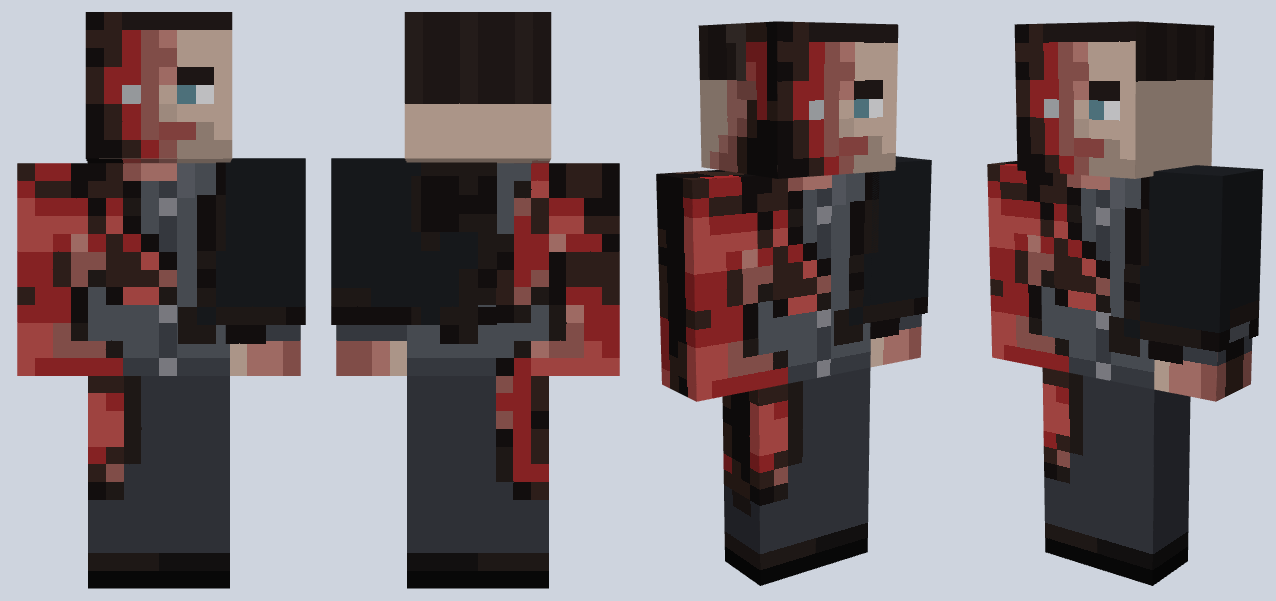
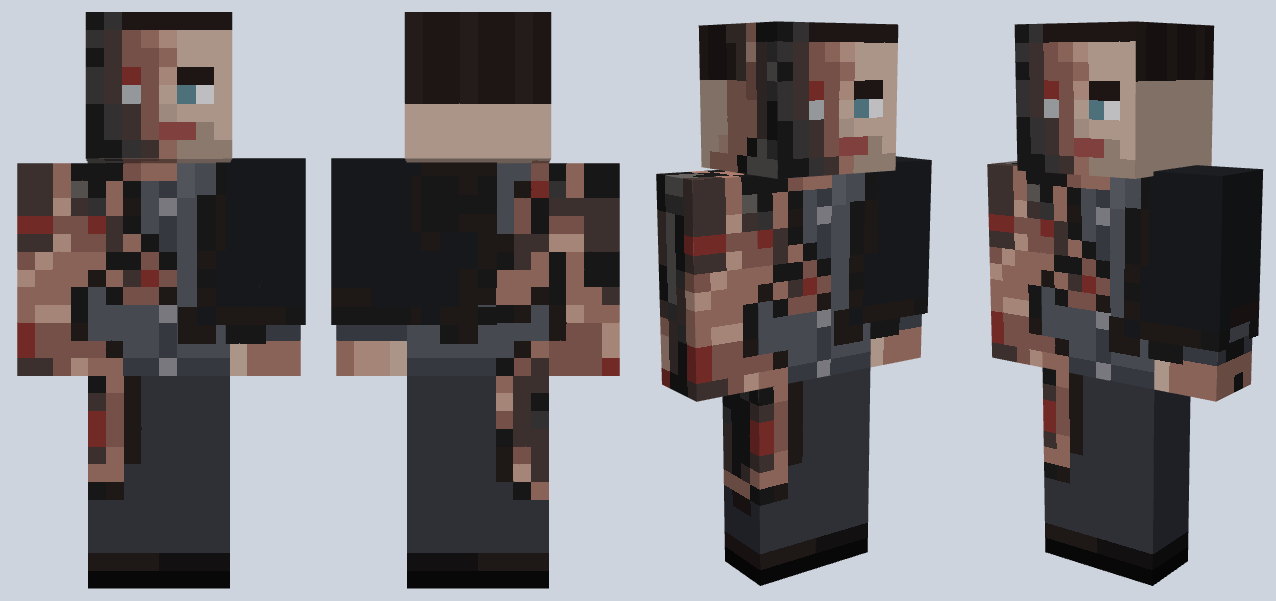
art(bosses): Deucalion's real face and glasses, burned Peter in burn tones
Deucalion (human): short dark-brown hair, dark stubble and blind clouded eyes instead of blond and blue. Dark glasses sit alone on the hat layer, so hiding that layer removes them. Sweater and shawl collar unchanged.

Peter Hale (burned): same right-side layout, new tones. Dull pink-brown mottled scar with a waxy sheen, dark crust, grey-black flaking char; raw red only in a few small splits.

References recorded in art/bosses/REFERENCES.md and README.md (round 7).

diff --git a/art/bosses/tools/paint_skins.py b/art/bosses/tools/paint_skins.py
@@ -315,9 +315,13 @@ def mikael():
 
 
 def deucalion_human():
-    """No random noise anywhere (it read as speckle): every tone is placed by a regular pattern."""
+    """Short dark-brown hair, dark stubble, blind clouded eyes behind dark glasses (stills 3x01, 3x07, 3x10,
+    5x14, 6x19). The glasses are the only thing on the hat layer, so hiding that layer takes them off.
+    No random noise anywhere (it read as speckle): every tone is placed by a regular pattern."""
     s = Skin(False, 707)
-    SK, HAIR, IRIS = (212, 178, 150), (170, 144, 98), (88, 132, 178)
+    SK, HAIR = (212, 178, 150), (92, 68, 50)
+    CLOUD, RIM = (188, 196, 200), (206, 176, 172)  # clouded iris, reddened white
+    LENS, GLINT, FRAME = (26, 26, 30), (70, 67, 66), (44, 42, 42)
     ALL = ('top', 'bottom') + SIDES
 
     def fill(part, fn, sides=ALL, rows=None):
@@ -332,25 +336,29 @@ def deucalion_human():
     def strand(lx, ly, k=1.0):  # swept strands: three tones in diagonal streaks
         return shade(HAIR, k * (1.1, 0.98, 0.86)[(lx + ly // 2) % 3])
 
-    # face: smooth skin, soft jaw shadow, even stubble band
+    # face: smooth skin, dark stubble along the jaw and chin
     fill('head', lambda side, lx, ly: shade(SK, {'front': 1.0, 'top': 1.0, 'bottom': 0.84}.get(side, 0.95) * (0.95 if side in SIDES and ly >= 6 else 1.0)))
-    STUB = mixc(SK, shade(SK, 0.8), 0.45)
+    STUB, STUB_L = mixc(SK, HAIR, 0.5), mixc(SK, HAIR, 0.26)
     for lx in range(8):
         s.set('head', 'front', lx, 7, STUB)
         if lx not in (3, 4):
-            s.set('head', 'front', lx, 6, mixc(SK, STUB, 0.6))
+            s.set('head', 'front', lx, 6, STUB if lx in (0, 1, 6, 7) else STUB_L)
+    for lx in (0, 7):
+        s.set('head', 'front', lx, 5, STUB_L)
     for side, xs in (('right', (5, 6, 7)), ('left', (0, 1, 2))):
         for lx in xs:
-            s.set('head', side, lx, 7, STUB)
-    s.set('head', 'front', 1, 4, WHITE); s.set('head', 'front', 2, 4, IRIS)
-    s.set('head', 'front', 5, 4, IRIS); s.set('head', 'front', 6, 4, WHITE)
+            s.set('head', side, lx, 5, STUB_L); s.set('head', side, lx, 6, STUB); s.set('head', side, lx, 7, STUB)
+    s.set('head', 'front', 1, 4, RIM); s.set('head', 'front', 2, 4, CLOUD)
+    s.set('head', 'front', 5, 4, CLOUD); s.set('head', 'front', 6, 4, RIM)
     for lx in (1, 2, 5, 6):
-        s.set('head', 'front', lx, 3, (120, 98, 64))
+        s.set('head', 'front', lx, 3, shade(HAIR, 0.72))
     s.set('head', 'front', 3, 5, shade(SK, 0.9)); s.set('head', 'front', 4, 5, shade(SK, 0.94))
     s.set('head', 'front', 3, 6, (160, 96, 88)); s.set('head', 'front', 4, 6, (160, 96, 88))
-    # short sandy hair, swept up and to one side
+    # short dark-brown hair, swept up and to one side
     fill('head', lambda side, lx, ly: strand(lx, ly), sides=('top',))
     fill('head', lambda side, lx, ly: strand(lx, ly, 0.94), sides=('front',), rows=(0, 1))
+    for lx in range(0, 5):  # the swept fringe drops one row on his right
+        s.set('head', 'front', lx, 1, strand(lx, 1, 0.9))
     fill('head', lambda side, lx, ly: strand(lx, ly, 0.9 if ly == 4 else 0.96), sides=('back',), rows=(0, 5))
     for side, xs, burn in (('right', range(0, 6), (6, 7)), ('left', range(2, 8), (0, 1))):
         for ly in range(3):
@@ -358,11 +366,12 @@ def deucalion_human():
                 s.set('head', side, lx, ly, strand(lx, ly, 0.94))
         for lx in burn:
             s.set('head', side, lx, 3, shade(HAIR, 0.82))
-    fill('hat', lambda side, lx, ly: strand(lx, ly, 1.04), sides=('top',))  # volume on the second layer
-    fill('hat', lambda side, lx, ly: strand(lx, ly), sides=SIDES, rows=(0, 1))
-    for lx in range(0, 5):  # the swept quiff drops one row on his right
-        s.set('hat', 'front', lx, 1, strand(lx, 1, 0.92))
-    fill('hat', lambda side, lx, ly: strand(lx, ly, 0.94), sides=('back',), rows=(1, 3))
+    # dark glasses (hat layer): two lenses over brow and eye, bridge, arms back to the ears
+    for x0 in (1, 5):
+        s.rect('hat', 'front', x0, 3, 2, 2, LENS); s.set('hat', 'front', x0, 3, GLINT)
+    for lx in (0, 3, 4, 7):
+        s.set('hat', 'front', lx, 3, FRAME)
+    s.rect('hat', 'right', 4, 3, 4, 1, FRAME); s.rect('hat', 'left', 0, 3, 4, 1, FRAME)
     # dark knit sweater (base): clean vertical ribs
     SW, SWL, TRO, BOOT = (38, 40, 46), (122, 124, 130), (30, 32, 38), (24, 22, 22)
     rib = lambda c, lx, hi=1.12, lo=0.88: shade(c, hi if lx % 2 == 0 else lo)
@@ -443,13 +452,14 @@ def risen(s):
     """Peter, burned (Season 1 stills 1x04 / 1x09). One burn field in 3D model space drives everything, so the
     damage is continuous across faces and limbs instead of separate blotches. It starts on the right side of his
     face (viewer's left, as in the stills), runs down the right arm and diagonally across the chest and back.
-    Skin goes intact -> ridged ruddy scar -> raw red -> cracked char. The fire took the outer layers first: the
+    Skin goes intact -> waxy pink-brown scar -> dark crust -> grey-black flaking char, with raw red only in a
+    few splits (burned, not bloody). The fire took the outer layers first: the
     black leather jacket survives only on his left, the grey shirt is burned through along the swath with a
     scorched fringe, and the right trouser leg is burned open."""
     INTACT = (214, 186, 170)
-    SCAR_L, SCAR_D = (198, 132, 124), (160, 96, 90)
-    RAW, RAW_P = (166, 42, 44), (198, 84, 80)
-    CHAR_B, CHAR_K = (56, 38, 32), (22, 18, 18)
+    SCAR_D, SCAR_M, SHEEN = (146, 100, 90), (172, 124, 110), (206, 166, 150)  # dull pink-brown, waxy highlight
+    RAW, CRUST = (142, 52, 48), (74, 60, 56)
+    CHAR_K, CHAR_G, ASH = (30, 29, 30), (62, 60, 60), (104, 100, 98)
     HAIR, SINGE = (36, 28, 26), (76, 64, 58)
     SHIRT, SHIRT_D, BUTTON = (88, 92, 100), (66, 70, 78), (150, 150, 158)
     LEATH, LEATH_HI = (28, 30, 34), (70, 76, 74)
@@ -500,15 +510,15 @@ def risen(s):
         return best + 0.36 * (vnoise(p, 3.5, 501) - 0.5)  # organic edges instead of perfect arcs
 
     def skin(L, p):
-        n = vnoise(p, 2.2, 777)  # its contour lines give winding scar ridges and crust edges
-        if L > 0.78:
-            return CHAR_K if L > 0.92 or n > 0.5 else CHAR_B
-        if L > 0.56:
-            return CHAR_B if n > 0.6 else RAW_P if n < 0.4 else RAW
-        if L > 0.38:
-            return SCAR_L if 0.42 < n < 0.56 else SCAR_D
+        n = vnoise(p, 2.2, 777)  # its contour lines give winding scar ridges and flake edges
+        if L > 0.84:  # char: grey-black, flaking
+            return ASH if n > 0.66 else CHAR_G if n > 0.52 else CHAR_K
+        if L > 0.68:  # crust over the deepest burns; raw only where it has split
+            return RAW if n < 0.3 else CHAR_K if n > 0.62 else CRUST
+        if L > 0.44:  # mottled scar with a waxy sheen along the ridges
+            return SHEEN if 0.47 < n < 0.53 else SCAR_M if n >= 0.53 else SCAR_D
         if L > 0.22:
-            return SCAR_L
+            return SHEEN if n > 0.6 else SCAR_M
         return INTACT
 
     def cloth(part, side, lx, ly):
@@ -563,18 +573,18 @@ def risen(s):
         hair('front', lx, 0)
         for ly in range(3):
             hair('left', lx, ly); hair('right', lx, ly)
-    # face, hand-placed over the field (I intact, S/D scar, R raw, B/K char, H hair, b brow, w eye white,
-    # i iris, c clouded eye, m mouth, t stubble)
-    FACE = ['KBHHHHHH',
-            'BBRDSIII',
-            'KBRDDIII',
-            'BRRDSbbI',
-            'BRcDIiwI',
-            'KBRDIIII',
-            'KBRDmmtI',
-            'KKBRDttt']
-    KEY = {'I': INTACT, 'S': SCAR_L, 'D': SCAR_D, 'R': RAW, 'B': CHAR_B, 'K': CHAR_K, 'H': HAIR, 'b': HAIR, 'w': WHITE,
-           'i': (96, 140, 152), 'c': (186, 190, 194), 'm': (160, 80, 76), 't': mixc(INTACT, HAIR, 0.22)}
+    # face, hand-placed over the field (I intact, S sheen, M/D scar, C crust, G/K char, r raw split, H hair,
+    # b brow, w eye white, i iris, c clouded eye, m mouth, t stubble)
+    FACE = ['KGHHHHHH',
+            'GCDMSIII',
+            'KCDDMIII',
+            'GCrDSbbI',
+            'GCcDIiwI',
+            'KGCDIIII',
+            'KGCDmmtI',
+            'KKGCMttt']
+    KEY = {'I': INTACT, 'S': SHEEN, 'M': SCAR_M, 'D': SCAR_D, 'C': CRUST, 'G': CHAR_G, 'K': CHAR_K, 'r': RAW, 'H': HAIR,
+           'b': HAIR, 'w': WHITE, 'i': (96, 140, 152), 'c': (186, 190, 194), 'm': (160, 80, 76), 't': mixc(INTACT, HAIR, 0.22)}
     for ly, row in enumerate(FACE):
         for lx, k in enumerate(row):
             s.set('head', 'front', lx, ly, KEY[k])

diff --git a/art/bosses/README.md b/art/bosses/README.md
@@ -20,9 +20,9 @@ All art is original. Wikis, show descriptions and fan skins were used as inspira
 | `rebekah.png` | **slim arms** | cream blouse, grey wool coat, dark jeans, brown boots; long icy-blonde waves, light blue eyes, pale skin with a few freckles | long gold pendant necklace; hair spills over the coat on the jacket layer |
 | `finn.png` | player | grey dress coat over a white shirt and dark tie, dark trousers, black shoes; brown hair slicked back, hazel-green eyes | coat tails on the pants layers |
 | `freya.png` | **slim arms** | brown leather jacket over a charcoal top, dark jeans, black boots; long dirty-blonde hair, green eyes, smoky liner | pendant on a cord. Possible future NPC/boss |
-| `deucalion_human.png` | player | dark charcoal knit sweater with clean vertical ribs, lighter grey textured (checker-knit) shawl collar and shoulder panels, dark trousers; short swept sandy-blond hair in three-tone strands, blue eyes | no coat, cane or glasses. No random noise: every tone is placed by a regular pattern, so nothing speckles |
+| `deucalion_human.png` | player | dark charcoal knit sweater with clean vertical ribs, lighter grey textured (checker-knit) shawl collar and shoulder panels, dark trousers; short swept dark-brown hair in three-tone strands, dark stubble along jaw and chin, blind eyes (clouded pale iris, reddened white) | dark glasses with thin frames and arms are the **only** thing on the hat layer: hide that layer (the `hat` model part) to take them off, e.g. when he shifts. No coat or cane. No random noise: every tone is placed by a regular pattern |
 | `peter_hale.png` | player | camel wool overcoat (lapels, open) over a dark grey herringbone waistcoat and a white open-collar shirt, dark trousers; slicked-back dark hair, short trimmed beard and stubble (mouth visible), blue-green eyes | coat to knee level on the pants layers, charcoal trousers and dark shoes below |
-| `peter_hale_burned.png` | player | Season 1 burned look: intact skin, ridged ruddy scar, raw red, char brown and black; grey button shirt, black leather jacket, charcoal trousers | one burn field in 3D runs from the right side of his face (viewer's left, as in the 1x04 and 1x09 stills) down the right arm, across the chest and back, to the right hip; a smaller one takes the left hand. Skin grades intact, scar, raw, char towards each centre. The jacket survives only on his left, the shirt is burned through along the swath with a black and scorched-brown fringe, the right trouser leg is burned open. Right half of the face stays recognisably Peter (clouded eye on the burned side) |
+| `peter_hale_burned.png` | player | Season 1 burned look in burn tones, not blood: intact skin, dull pink-brown scar (two tones, mottled, with a pale waxy sheen along the ridges), dark crust, grey-black char with grey flakes and ash; raw red only in a few small splits; grey button shirt, black leather jacket, charcoal trousers | one burn field in 3D runs from the right side of his face (viewer's left, as in the 1x04 and 1x09 stills) down the right arm, across the chest and back, to the right hip; a smaller one takes the left hand. Skin grades intact, scar, crust, char towards each centre. The jacket survives only on his left, the shirt is burned through along the swath with a black and scorched-brown fringe, the right trouser leg is burned open. Right half of the face stays recognisably Peter (clouded eye on the burned side) |
 | `sebastien_valet.png` | player | French line-infantry soldier of the 1760s: undyed greyish-white wool coat with blue cuffs and turn-backs and brass buttons, buff waistcoat, black cravat, white buff cross-belt, buff breeches, black gaiters | bare-headed on the skin: natural dark hair pulled back into a queue with a black ribbon at the nape, tail and bow hanging on the coat back; clean face with light stubble; healthy tan skin. His tricorn is a 3D item model, not paint (the preview shows it worn) |
 | `beast_host.png` | player | linen button-up shirt, brown vest, grey trousers; medium-brown skin, dark brown eyes, short dark brown hair | the Beast's host, Mason Hewitt in the show; village clothes for the mod |
 
@@ -76,6 +76,11 @@ All four use the Werewolves mod beast model (`WerewolfBeastModel`) UV layout exa
 - **Deucalion (human)** — also teen-wolf-pack.fandom.com/wiki/Gideon_Emery and yourprops.com (screen-worn wardrobe listing, page body not readable); sandy-blond hair and blue eyes confirmed by two wikis.
 - **Peter Hale (human)** — also hleatherjackets.com and usajacket.com Teen Wolf: The Movie replica listings (brown wool-blend lapel coat).
 - **Beast host (Mason Hewitt)** — teen-wolf-pack.fandom.com/wiki/Mason_Hewitt (medium-brown skin, dark brown eyes, short dark brown hair, button-up shirts), heroes-and-villain.fandom.com/wiki/Mason_Hewitt, en.wikipedia.org/wiki/Khylin_Rhambo.
+
+### Round 7 sources (owner's corrections)
+
+- **Deucalion, human** (replaces the blond, blue-eyed face) — stills `File:6x19 Deucalion.png` (short dark-brown hair swept up and across, dark stubble, black knit zip-neck), `File:3x10 Alpha Pack Deucalion Kali.jpg`, `File:3x01 Deucalion and Scott 2.jpg` and `File:3x07 Deucalion cane blade.jpg` (dark-lensed glasses with thin dark frames in human form), `File:5x14 Deucalion 5.png` (pale clouded eyes with a red rim); teen-wolf-pack.fandom.com/wiki/Deucalion ("When he was blind, his eyes were cloudy with a red ring around his iris"; his roar "shattered the lenses of his sunglasses"). The hair colour is the 6x19 hair scaled by that still's skin exposure; the lens glint is sampled from 3x10. The wiki text says "sandy blond", the stills and the owner say dark brown: the stills win.
+- **Peter Hale, burned** (tones) — the same stills as round 6: `File:1x04 peter hale burnt.jpg` and `File:1x09 peter burned face.png` show healed, ridged, dull pink-brown scar tissue with a waxy shine and no open blood; teenwolfwiki.com/Peter_Hale+Season_1 ("burned to a crisp") for the char.
 
 ### Round 6 sources (polish pass)
 

diff --git a/art/bosses/REFERENCES.md b/art/bosses/REFERENCES.md
@@ -11,7 +11,7 @@ Always research each character and item (wikis, show stills, fan skins) before d
 - Freya: https://www.planetminecraft.com/skin/freya-mikaelson-the-originals/ (Freya is a possible future boss/NPC)
 
 ## Owner's reference images (described)
-- **Deucalion, human:** short swept dirty-blond hair; a dark knit sweater with a lighter grey textured shawl collar and shoulder panels; dark, intense look. Teen Wolf season 3. Our existing coat/cane/glasses version is wrong: use this sweater look.
+- **Deucalion, human:** short swept dirty-blond hair; a dark knit sweater with a lighter grey textured shawl collar and shoulder panels; dark, intense look. Teen Wolf season 3. Our existing coat/cane/glasses version is wrong: use this sweater look. **Corrected in round 7:** short dark-brown hair and dark stubble, blind (pale clouded eyes), dark glasses in human form; not blond, not blue-eyed. The sweater and collar stay.
 - **Deucalion, Demon Wolf:** blue-grey skin (not fur), red glowing eyes, pointed ears, a heavy brow ridge and a wrinkled snout, a full mouth of sharp fangs, dark hair swept back. A gargoyle/demon face rather than a furry wolf.
 - **Peter Hale, Alpha form (season 1):** a huge four-legged beast, black and dark blue-grey with a shaggy black mane over the shoulders and back, red glowing eyes, a wolf-like snarling face, long dark limbs and white claws. Moves on all fours.
 - **Peter Hale, human:** slicked-back dark hair, a short beard, a camel/tan wool overcoat over a dark grey herringbone waistcoat and a white open-collar shirt.
@@ -30,3 +30,8 @@ Fandom's `api.php` and image CDN are reachable even though the pages are not, so
 - **Peter Hale, burned:** stills `File:1x04 peter hale burnt.jpg` and `File:1x09 peter burned face.png` show ridged, ruddy scar tissue over the **right** side of his face (viewer's left) from forehead to neck, the hairline burned back at that temple, and a grey button shirt under a black leather jacket. teenwolfwiki.com/Peter_Hale+Season_1: "burned and broken for six years", "burned to a crisp" at the end of Season 1. heroes-and-villain.fandom.com/wiki/Peter_Hale: burned three times. This corrects the "left side" in round 5.
 - **Tricorn:** Met 26.56.88 (https://commons.wikimedia.org/wiki/File:Tricorne_MET_26.56.88.jpg): black wool felt, gold metallic lace on the edge, gold loop and button, black ribbon cockade. https://commons.wikimedia.org/wiki/File:Hatt_m1763.jpg: army cocked hat with a bound edge. https://fashionhistory.fitnyc.edu/tricorne-hat/: dark, "often edged with a gold braided trim", point worn forward. https://en.wikipedia.org/wiki/Tricorne: low crown, three cocked sides, cockade on military hats. Kronoskaf, French regulars in North America (quoted at http://theminiaturespage.com/boards/msg.mv?id=307469): "black tricorne laced gold with a black cockade". So black felt with gold trim is supported, and the cockade is black, on the left.
 - **Sebastien Valet:** the wiki describes olive skin, black hair pulled back with a ribbon and his Seven Years' War uniform; every still of him (`File:5x18 Sebastien.gif`, `File:5x18 Sebastien dies.jpg`, `File:5x18 Sebastian transforming close up.jpg`) is bare-headed. Sources call him a soldier, not a nobleman.
+
+## Round 7 findings (owner's corrections)
+- **Deucalion is played by Gideon Emery:** short dark-brown hair, dark stubble, blind. Stills: `File:6x19 Deucalion.png` (hair, stubble), `File:3x10 Alpha Pack Deucalion Kali.jpg`, `File:3x01 Deucalion and Scott 2.jpg`, `File:3x07 Deucalion cane blade.jpg` (dark glasses with thin frames), `File:5x14 Deucalion 5.png` (clouded eyes). Wiki: "his eyes were cloudy with a red ring around his iris"; his roar "shattered the lenses of his sunglasses". So the glasses are supported, and they sit alone on the hat layer so they can be hidden.
+- **Burned Peter is scarred and charred, not bloody:** the 1x04 and 1x09 stills show healed, ridged, dull pink-brown scar tissue with a waxy shine. Char is grey-black and flaking; raw red only in small splits.
+
